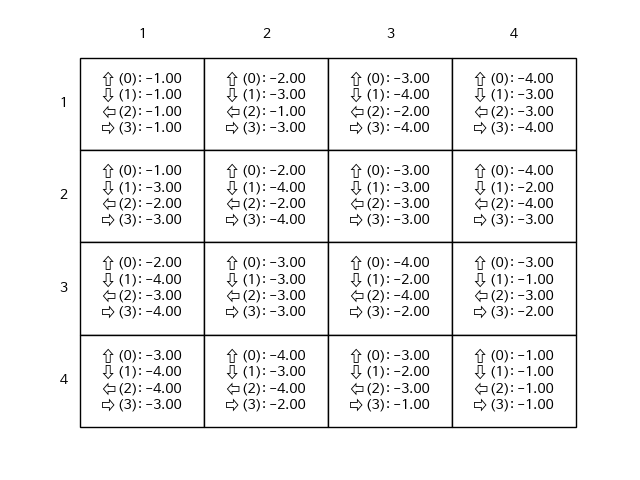
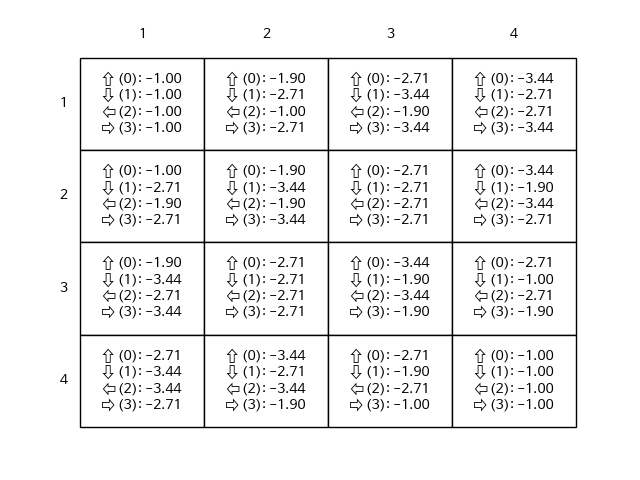
...

diff --git a/basic/practice_4/policy_iteration.py b/basic/practice_4/policy_iteration.py
@@ -2,7 +2,8 @@ import numpy as np
 import os
 
 from basic.practice_1.gridworld import GridWorld
-from utils.util import softmax, draw_grid_world_policy_image, draw_grid_world_action_values_image
+from utils.util import softmax, draw_grid_world_policy_image, draw_grid_world_action_values_image, \
+    draw_grid_world_state_values_image
 
 GRID_HEIGHT = 4
 GRID_WIDTH = 4
@@ -13,15 +14,11 @@ DISCOUNT_RATE = 0.9
 THETA_1 = 0.0001
 THETA_2 = 0.0001
 
-MAX_EPISODES = 5000
-
 
 # 정책 반복 클래스
 class PolicyIteration:
     def __init__(self, env):
         self.env = env
-
-        self.max_iteration = MAX_EPISODES
 
         self.terminal_states = [(0, 0), (4, 4)]
 
@@ -63,11 +60,9 @@ class PolicyIteration:
                         for action in self.env.action_space.ACTIONS:
                             (next_i, next_j), reward, prob = self.env.get_state_action_probability(state=(i, j), action=action)
 
-                            action_probs = self.policy[i, j, :]
-
                             # Bellman-Equation, 벨만 방정식 적용
                             values.append(
-                                action_probs[action] * prob * (reward + DISCOUNT_RATE * old_state_values[next_i, next_j])
+                                self.policy[i, j, action] * prob * (reward + DISCOUNT_RATE * old_state_values[next_i, next_j])
                             )
 
                         state_values[i][j] = np.sum(values)
@@ -75,8 +70,8 @@ class PolicyIteration:
             iter_num += 1
 
             # 갱신되는 값이 THETA_1(=0.0001)을 기준으로 수렴하는지 판정
-            max_delta_value = abs(old_state_values - state_values).max()
-            if max_delta_value < THETA_1:
+            delta_value = np.sum(np.absolute(old_state_values - state_values))
+            if delta_value < THETA_1:
                 break
 
         self.state_values = state_values
@@ -96,10 +91,8 @@ class PolicyIteration:
                     for action in self.env.action_space.ACTIONS:
                         new_policy[i][j][action] = 0.00
                 else:
-                    actions = []
                     q_func = []
                     for action in self.env.action_space.ACTIONS:
-                        actions.append(action)
                         (next_i, next_j), reward, prob = self.env.get_state_action_probability(state=(i, j), action=action)
                         q_func.append(
                             prob * (reward + DISCOUNT_RATE * self.state_values[next_i, next_j])
@@ -107,10 +100,7 @@ class PolicyIteration:
 
                     new_policy[i, j, :] = softmax(q_func)
 
-        error = 0.0
-        for i in range(GRID_HEIGHT):
-            for j in range(GRID_WIDTH):
-                error += np.sum(np.absolute(np.array(self.policy[i, j, :]) - np.array(new_policy[i, j, :])))
+        error = np.sum(np.absolute(self.policy - new_policy))
 
         if error > THETA_2:
             is_policy_stable = False
@@ -127,9 +117,10 @@ class PolicyIteration:
         is_policy_stable = False
 
         print("[[[ 정책 반복 시작! ]]]")
-        while not is_policy_stable and iter_num < self.max_iteration:
+
+        while not is_policy_stable:
             iter_num_policy_evaluation = self.policy_evaluation()
-            print("*** 정책 평가 [수렴까지 누적 반복 횟수: {0}] ***".format(iter_num_policy_evaluation))
+            print("*** 정책 평가 [수렴까지 반복 횟수: {0}] ***".format(iter_num_policy_evaluation))
 
             is_policy_stable, error = self.policy_improvement()
             print("*** 정책 개선 [에러 값: {0:7.5f}] ***".format(error))
@@ -184,7 +175,13 @@ def main():
     PI = PolicyIteration(env)
     PI.start_iteration()
 
-    print(PI.state_values, end="\n\n")
+    print(PI.state_values)
+
+    draw_grid_world_state_values_image(
+        np.round(PI.state_values, decimals=2),
+        'images/grid_world_pi_optimal_state_values.png',
+        GRID_HEIGHT, GRID_WIDTH
+    )
 
     draw_grid_world_action_values_image(
         PI.calculate_grid_world_optimal_action_values(),

diff --git a/basic/practice_4/value_iteration.py b/basic/practice_4/value_iteration.py
@@ -1,23 +1,20 @@
 import numpy as np
 from basic.practice_1.gridworld import GridWorld
-from utils.util import softmax, draw_grid_world_action_values_image, draw_grid_world_policy_image
+from utils.util import softmax, draw_grid_world_action_values_image, draw_grid_world_policy_image, \
+    draw_grid_world_state_values_image
 
 GRID_HEIGHT = 4
 GRID_WIDTH = 4
 TERMINAL_STATES = [(0, 0), (GRID_HEIGHT-1, GRID_WIDTH-1)]
 
-DISCOUNT_RATE = 1.0
+DISCOUNT_RATE = 0.9
 THETA_1 = 0.0001
-THETA_2 = 0.0001
-MAX_EPISODES = 5000
 
 
 # 정책 반복 클래스
 class ValueIteration:
     def __init__(self, env):
         self.env = env
-
-        self.max_iteration = MAX_EPISODES
 
         self.terminal_states = [(0, 0), (4, 4)]
 
@@ -67,8 +64,8 @@ class ValueIteration:
             iter_num += 1
 
             # 갱신되는 값이 THETA_1(=0.0001)을 기준으로 수렴하는지 판정
-            max_delta_value = abs(old_state_values - state_values).max()
-            if max_delta_value < THETA_1:
+            delta_value = np.sum(np.absolute(old_state_values - state_values))
+            if delta_value < THETA_1:
                 break
 
         self.state_values = state_values
@@ -94,13 +91,15 @@ class ValueIteration:
 
     # 정책 반복 함수
     def start_iteration(self):
-        iter_num = 0
+        print("[[[ 가치 반복 시작! ]]]")
 
         iter_num_policy_evaluation = self.value_evaluation()
-        print("*** 가치 평가 [수렴까지 누적 반복 횟수: {0}] ***".format(iter_num_policy_evaluation))
+        print("*** 가치 평가 [수렴까지 반복 횟수: {0}] ***".format(iter_num_policy_evaluation))
 
+        print()
         self.policy_setup()
         print("*** 정책 셋업 완료 ***")
+        print()
 
         return self.state_values, self.policy
 
@@ -144,6 +143,14 @@ if __name__ == '__main__':
 
     VI = ValueIteration(env)
     VI.start_iteration()
+
+    print(VI.state_values)
+
+    draw_grid_world_state_values_image(
+        np.round(VI.state_values, decimals=2),
+        'images/grid_world_vi_optimal_state_values.png',
+        GRID_HEIGHT, GRID_WIDTH
+    )
 
     draw_grid_world_action_values_image(
         VI.calculate_grid_world_optimal_action_values(),

diff --git a/basic/practice_3/optimal_state_values.py b/basic/practice_3/optimal_state_values.py
@@ -4,7 +4,7 @@ import os
 from basic.practice_1.gridworld import GridWorld
 
 # 이미지 저장 경로 확인 및 생성
-from utils.util import draw_grid_world_image
+from utils.util import draw_grid_world_state_values_image
 
 GRID_HEIGHT = 5
 GRID_WIDTH = 5
@@ -65,7 +65,7 @@ def main():
 
     optimal_state_values = calculate_grid_world_optimal_state_values(env)
 
-    draw_grid_world_image(
+    draw_grid_world_state_values_image(
         np.round(optimal_state_values, decimals=2), 'images/grid_world_optimal_state_values.png', GRID_HEIGHT, GRID_WIDTH
     )
 

diff --git a/basic/practice_2/state_values.py b/basic/practice_2/state_values.py
@@ -4,7 +4,7 @@ import os
 from basic.practice_1.gridworld import GridWorld
 
 # 이미지 저장 경로 확인 및 생성
-from utils.util import draw_grid_world_image
+from utils.util import draw_grid_world_state_values_image
 
 GRID_HEIGHT = 5
 GRID_WIDTH = 5
@@ -69,7 +69,7 @@ def main():
 
     state_values = calculate_grid_world_state_values(env)
 
-    draw_grid_world_image(
+    draw_grid_world_state_values_image(
         np.round(state_values, decimals=2), 'images/grid_world_state_values.png', GRID_HEIGHT, GRID_WIDTH
     )
 

diff --git a/utils/util.py b/utils/util.py
@@ -15,7 +15,7 @@ def softmax(x):
 
 
 # 학습 이후의 가치함수를 표 형태로 그리는 함수
-def draw_grid_world_image(state_values, filename, GRID_HEIGHT, GRID_WIDTH):
+def draw_grid_world_state_values_image(state_values, filename, GRID_HEIGHT, GRID_WIDTH):
     # 축 표시 제거, 크기 조절 등 이미지 그리기 이전 설정 작업
     fig, ax = plt.subplots()
     ax.set_axis_off()
